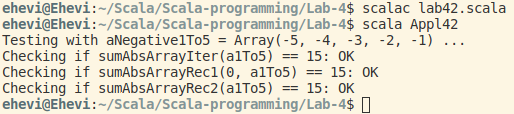
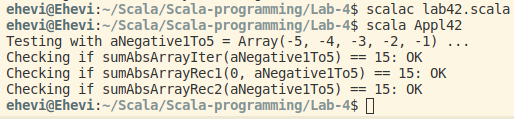
tailrec :cocktail:

diff --git a/Lab-4/README.md b/Lab-4/README.md
@@ -144,9 +144,9 @@ def main(args: Array[String]) {
     val aNegative1To5 = (-5 to -1).toArray
     println("Testing with aNegative1To5 = " + aNegative1To5.mkString("Array(", ", ", ") ..."))
     val expectResult = 15
-    checkPredicate(sumAbsArrayIter(aNegative1To5) == expectResult, "sumAbsArrayIter(a1To5) == " + expectResult)
-    checkPredicate(sumAbsArrayRec1(0, aNegative1To5) == expectResult, "sumAbsArrayRec1(0, a1To5) == " + expectResult)
-    checkPredicate(sumAbsArrayRec2(aNegative1To5) == expectResult, "sumAbsArrayRec2(a1To5) == " + expectResult)
+    checkPredicate(sumAbsArrayIter(aNegative1To5) == expectResult, "sumAbsArrayIter(aNegative1To5) == " + expectResult)
+    checkPredicate(sumAbsArrayRec1(0, aNegative1To5) == expectResult, "sumAbsArrayRec1(0, aNegative1To5) == " + expectResult)
+    checkPredicate(sumAbsArrayRec2(aNegative1To5) == expectResult, "sumAbsArrayRec2(aNegative1To5) == " + expectResult)
 }
 ```
 ![](pictures/2-4-zad-2-sum-abs.png)
@@ -160,9 +160,94 @@ Uzupełnić brakujące miejsca w pliku [`lab43.scala`](https://github.com/Ehevi/
 #### Zadanie
 Wyznaczyć maksymalny rozmiar tablicy, który nie powoduje przepełnienia stosu: [`lab44.scala`](https://github.com/Ehevi/Scala-programming/blob/master/Lab-4/lab44.scala).
 Czy otrzymany w wyniku powyższego testu rozmiar tablicy jest rzeczywiście maksymalny? Czy otrzymywane w kolejnych uruchomieniach wyniki są takie same?
+
 ![](pictures/3-5-recursion.png)
 
 ## 4. Rekursja “ogonowa”/końcowa, adnotacja *@tailrec*
+W pliku [`lab45.scala`](https://github.com/Ehevi/Scala-programming/blob/master/Lab-4/lab45.scala) dodać adnotację `@tailrec` w definicji metody `sumArrayRec2`. Przanalizować wynik kompilacji. Czym różnią się metody `sumArrayRec2` i `sumArrayRec3`? Do czego służy parametr `acc`?
+
+![](pictures/4-4-@tailrec.png)
+Metoda `sumArrayRec3` wykorzystuje rekurencję ogonową. Ostatnia operacja wykonywana przez funkcję to rekurencyjne wywołanie samej siebie (lub zwrócenie końcowego wyniku). Pozwala to kompilatorowi na jej optymalizację poprzez zastąpienie tego wywołania funkcji instrukcją skoku: rekurencja zastępowana jest iteracją. W ten sposób rekurencyjne wywołanie może korzystać z istniejącej już ramki, przez co zapotrzebowanie na stos maleje z liniowego O(n) do stałego O(1). W konsekwencji znacząco zredukowane jest ryzyko przepełnienia stosu (*stack overflow*). Wyraźnie zwiększa to wydajność działania.
+
+W metodzie `sumArrayRec2` rekurencyjne wywołanie funckji nie jest jej ostatnią instrukcją, przez co nie spełnia ona warunków optymalizacji ogonowej.
+(https://www.scala-lang.org/api/2.12.3/scala/annotation/tailrec.html)
+![](pictures/4-4-tailrec-lab-45.png)
+![](pictures/4-4-tailrec.png)
+
+Parametr `acc` przechowuje aktualny wynik wartości obliczanej przez funkcję.
+![](pictures/4-4-acc.png)
+
+#### Zadanie
+W pliku [`lab42.scala`](https://github.com/Ehevi/Scala-programming/blob/master/Lab-4/lab42.scala) dodać metodę `sumSqrArrayRec3` - z rekursją ogonową (dla potwierdzenia poprawności dodać `@tailrec`).
+
+```scala
+def sumSqrArrayRec3(elems: Array[Int]) = {
+    val size = elems.size
+    @tailrec
+    def goFrom(i: Int, acc: Int): Int = {
+        if(i < size) goFrom(i + 1, acc + pow(elems(i), 2).intValue)
+        else acc
+    }
+    goFrom(0, 0)
+}
+```
+
+![](pictures/4-4-sumSqrArrayRec3.png)
+
+#### Zadanie
+W pliku [`lab41.scala`](https://github.com/Ehevi/Scala-programming/blob/master/Lab-4/lab41.scala) dodać nowe wersje `factorial` i `fibb` - z rekursją ogonową (dla potwierdzenia poprawności dodać `@tailrec`).
+
+```scala
+def factorialTailRec(n: Int): Int = {
+  assert(n >= 0)
+  @tailrec
+  def goFrom(i: Int, acc: Int): Int = {
+    if(i == 0 || i == 1) acc
+    else goFrom(i - 1, i * acc)
+  }
+  goFrom(n, 1)
+}
+```
+
+```scala
+def fibbTailRec(n: Int): Int = {
+  assert(n >= 0)
+  @tailrec
+  def goFrom(i: Int, prev: Int, current: Int): Int = {
+    if(i == 0) current
+    else goFrom(i - 1, prev + current, prev)
+  }
+  goFrom(n, 1, 0)
+}
+```
+
+#### Zadanie
+W pliku [`lab42.scala`](https://github.com/Ehevi/Scala-programming/blob/master/Lab-4/lab42.scala) dodać odpowiednie metody (z rekursją ogonową) dla `prodArrayRec3` i `sumArrayRec3`. Dla potwierdzenia poprawności dodać `@tailrec`.
+
+```scala
+def prodArrayRec3(elems: Array[Int]) = {
+    val size = elems.size
+    @tailrec
+    def goFrom(i: Int, acc: Int): Int = {
+        if(i < size) goFrom(i + 1, acc * elems(i))
+        else acc
+    }
+    goFrom(0, 1)
+}
+```
+
+```scala
+def sumAbsArrayRec3(elems: Array[Int]) = {
+    val size = elems.size
+    @tailrec
+    def goFrom(i: Int, acc: Int): Int = {
+        if (i < size) goFrom(i + 1, acc + elems(i).abs)
+        else acc
+    }
+    goFrom(0, 0)
+}
+```
+
 ## 5. Usprawnianie procesów rekurencyjnych: “*memoization*“ i wzorzec “*trampolina*“
 ## 6. Odwzorowanie `switch - case` (z Javy) w Scali (wariant z typem wyliczeniowym)
 ## 7. Constant patterns (vs. *variable patterns*)
